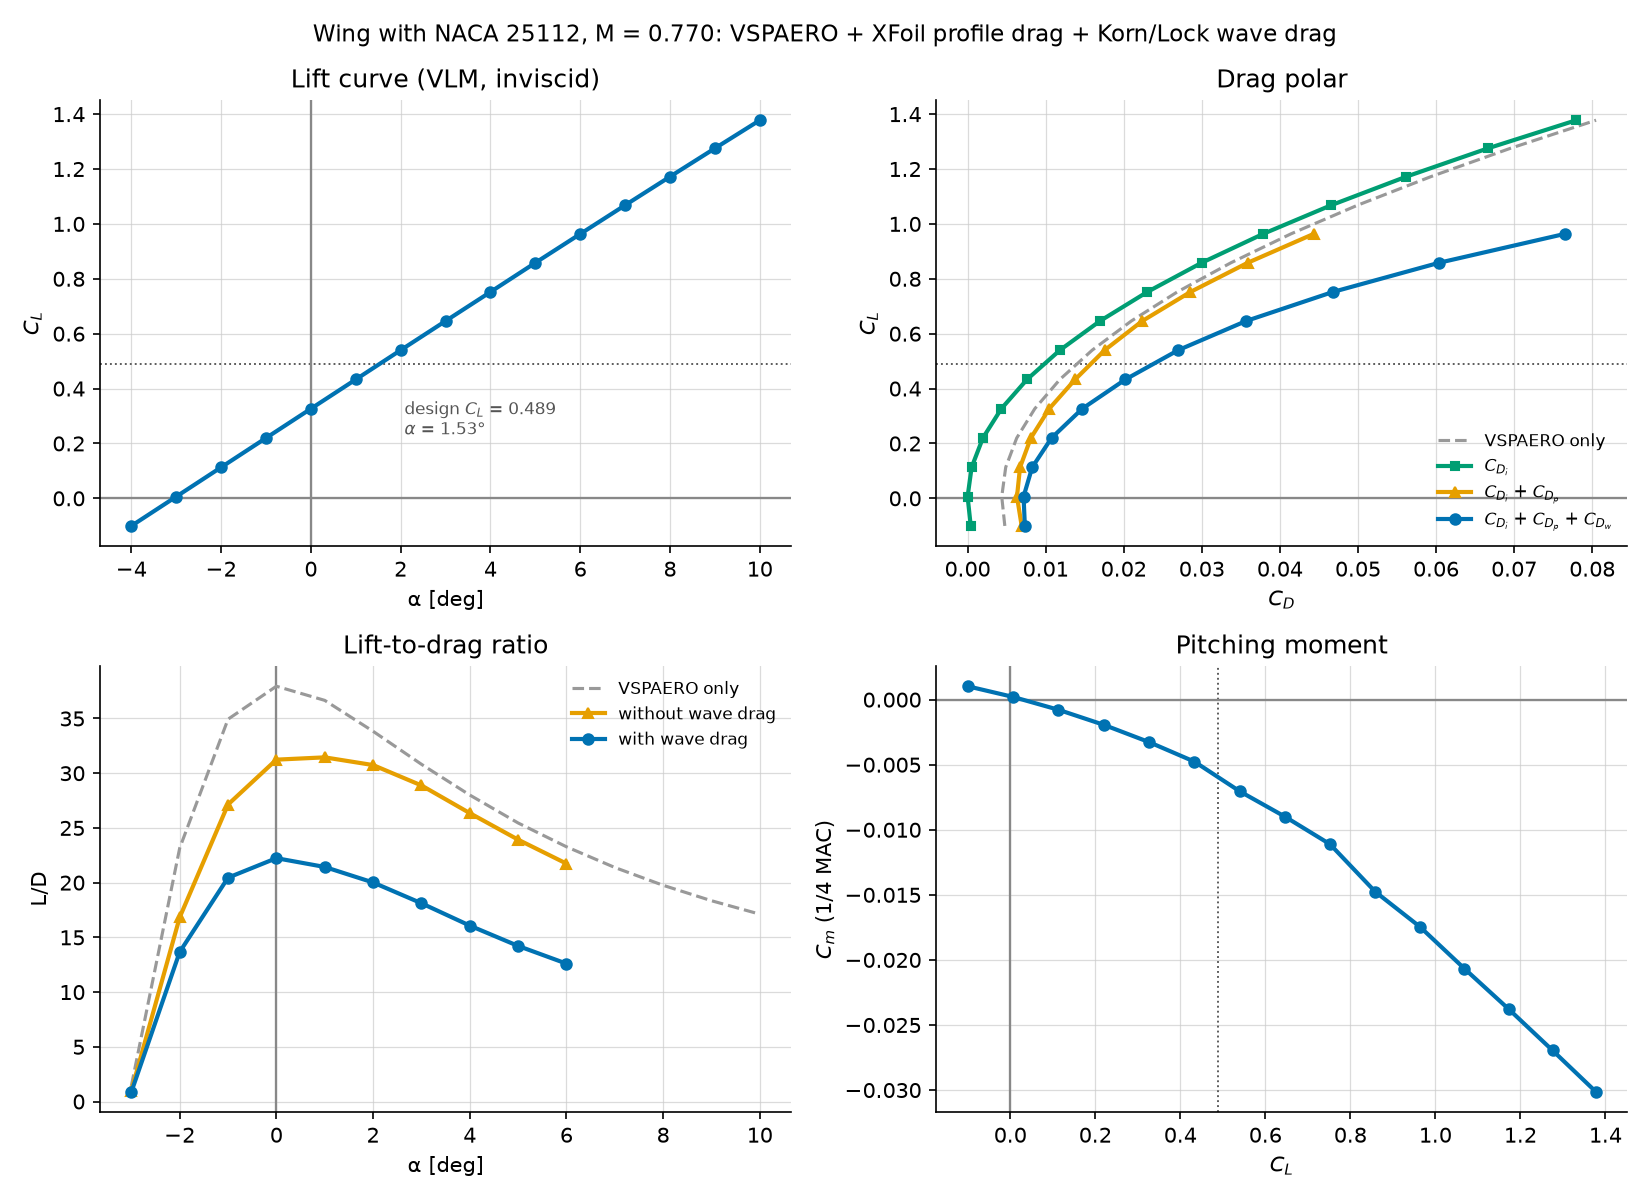
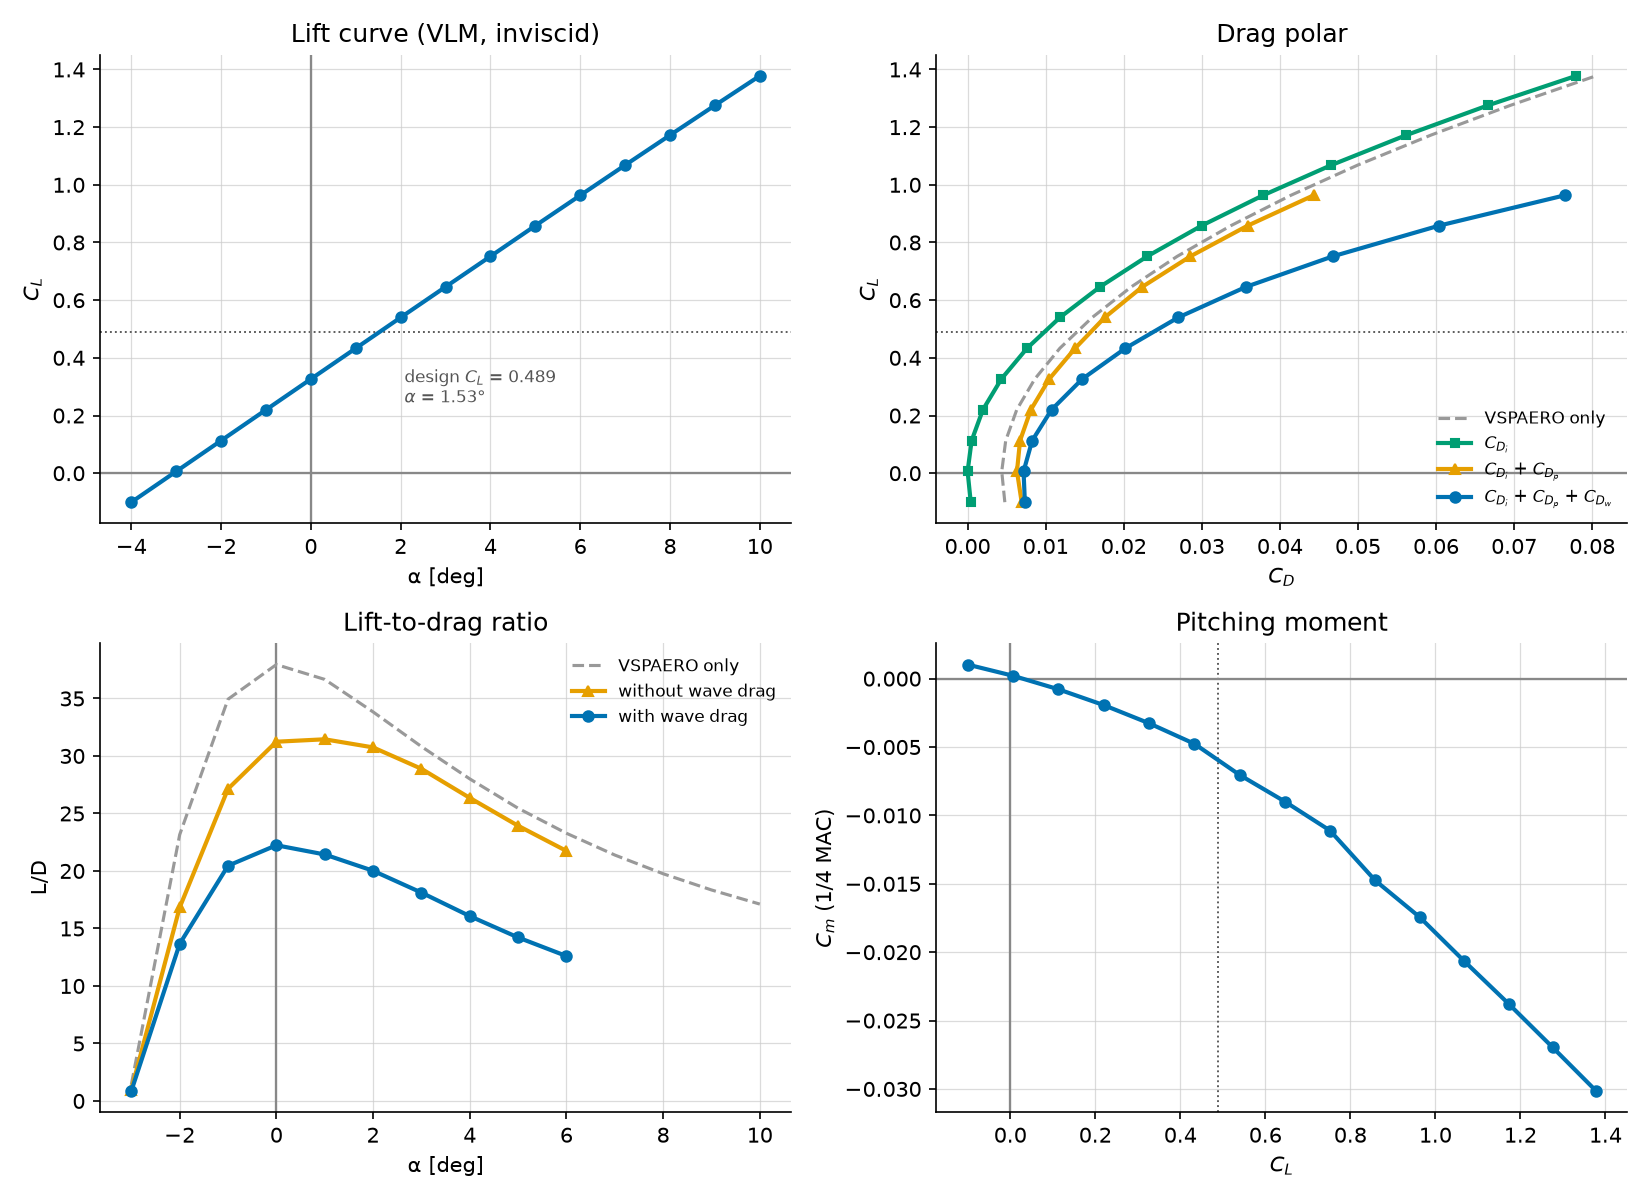
Changing the titles fot the figures

diff --git a/wp2/src/b12wp2/plots/vspaero.py b/wp2/src/b12wp2/plots/vspaero.py
@@ -93,10 +93,6 @@ def plot_polar(polar: pd.DataFrame, summary: dict[str, float], out_dir: Path) ->
     a.set(xlabel="$C_L$", ylabel="$C_m$ (1/4 MAC)", title="Pitching moment")
     _style_axes(a)
 
-    fig.suptitle(
-        f"Wing with NACA 25112, M = {summary['mach']:.3f}: VSPAERO + XFoil profile drag + Korn/Lock wave drag",
-        fontsize=11,
-    )
     fig.tight_layout()
     fig.savefig(out_dir / "polar.png", dpi=DPI)
     plt.close(fig)
